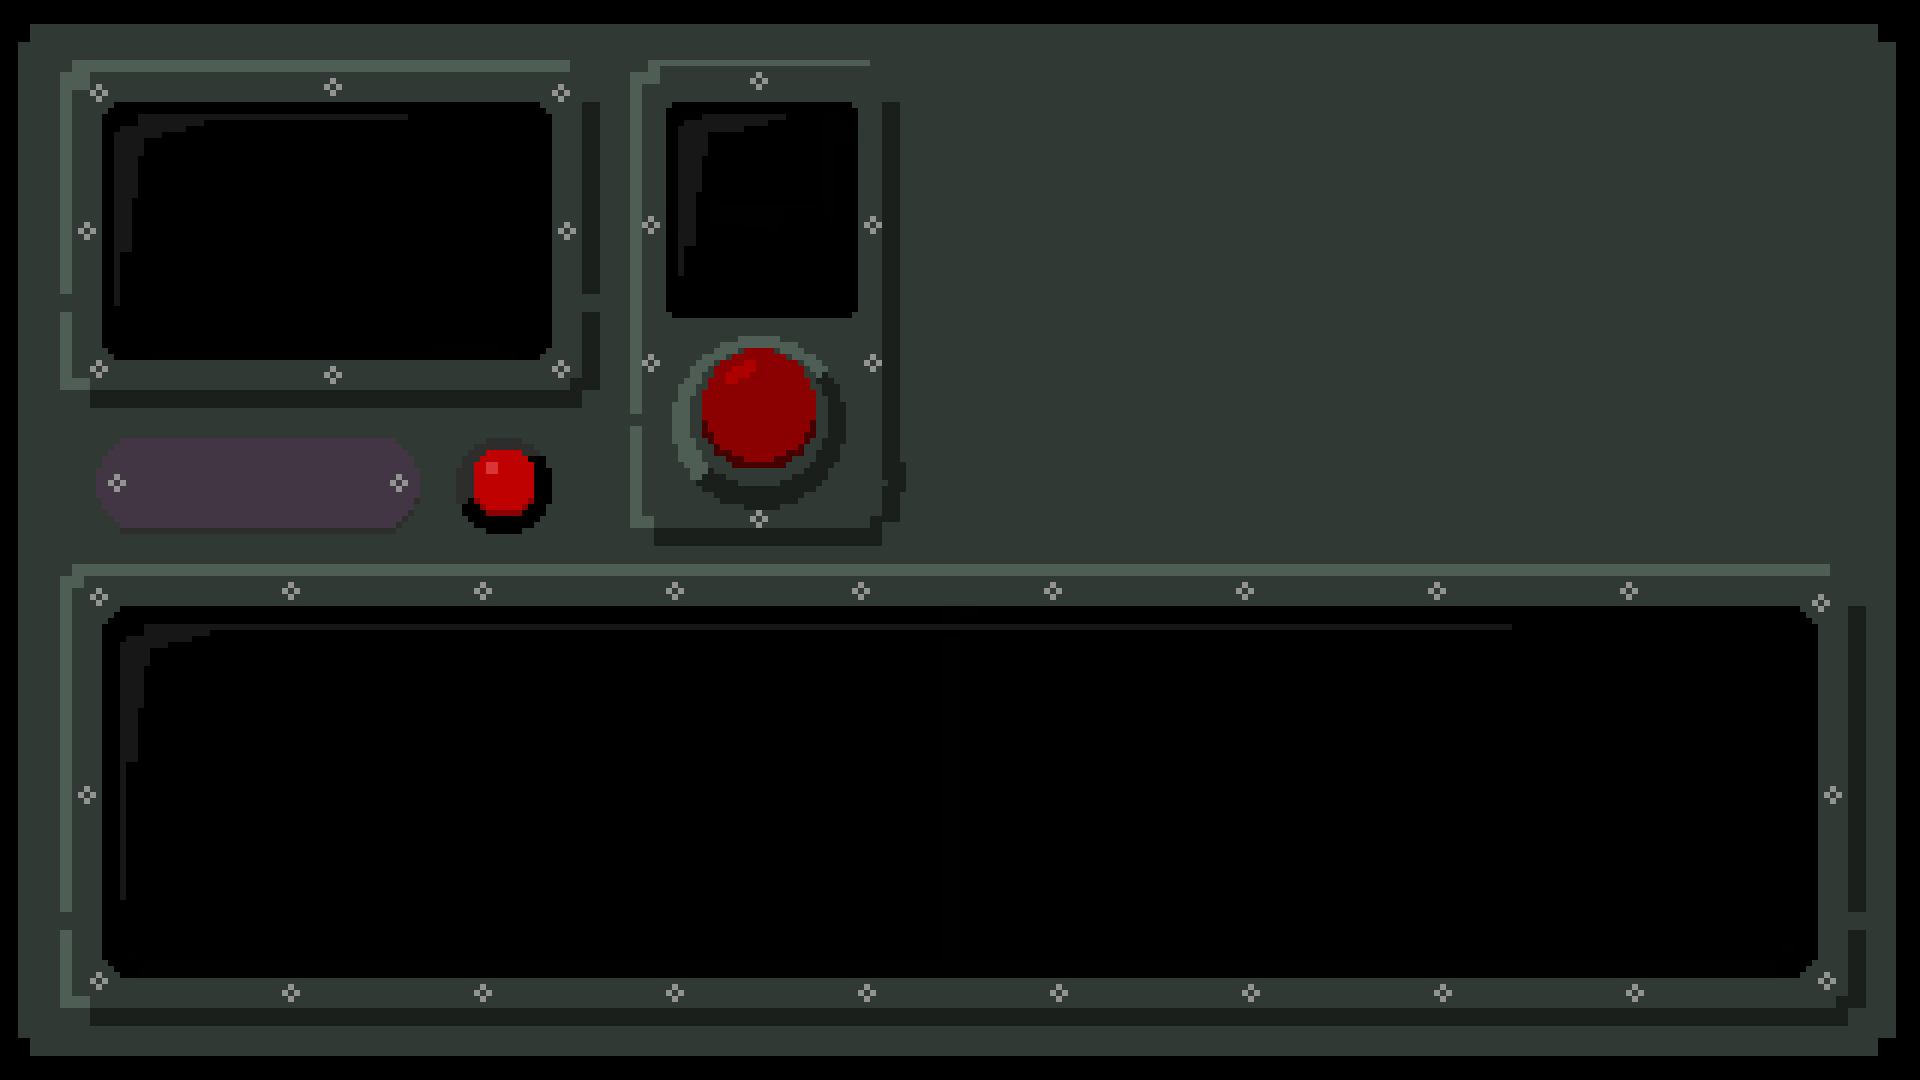
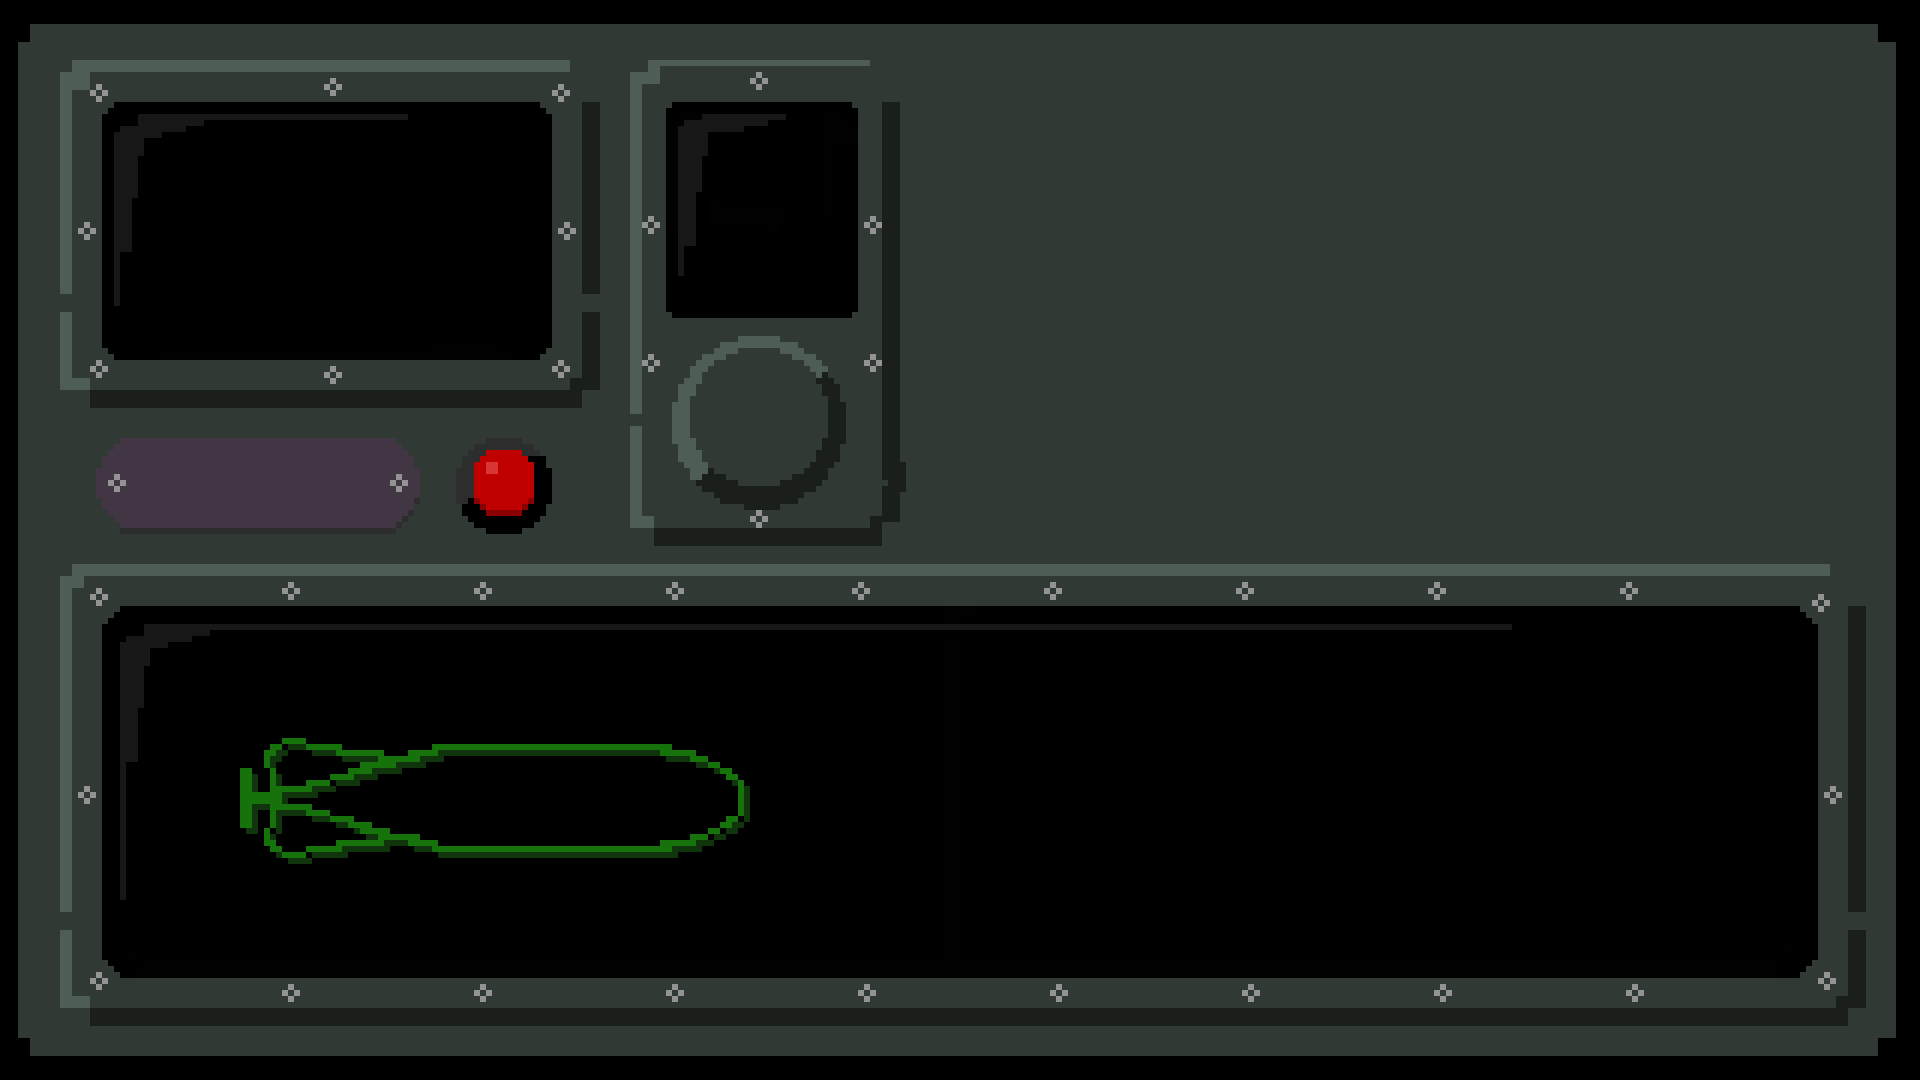
Add button to assets.

Changed region(s): [[0.125, 0.6722, 0.4062, 0.7944], [0.3438, 0.3056, 0.4375, 0.4583]]

diff --git a/assets/js/button.js b/assets/js/button.js
@@ -1,0 +1,54 @@
+class Button {
+  x = 660;
+  y = 318;
+
+  _press = 0;
+
+  _image;
+  _imageLocation = './assets/img/button.png';
+  _spriteWidth = 192;
+  _spriteHeight = 192;
+
+  constructor() {
+    console.log('button: constructor');
+
+    this._loadImage();
+  }
+
+  _loadImage() {
+    console.log('button: _loadImage');
+
+    this._image = new Image();
+
+    this._image.onload = () => {
+      this._draw();
+    };
+
+    this._image.src = this._imageLocation;
+  }
+  _draw() {
+    // console.log('book: _draw');
+
+    const _sourceY = this._spriteHeight * this._press;
+
+    ctx.beginPath();
+    ctx.drawImage(
+      this._image,
+      0,
+      _sourceY,
+      this._spriteWidth,
+      this._spriteHeight,
+      this.x,
+      this.y,
+      this._spriteWidth,
+      this._spriteHeight
+    );
+  }
+
+  tick() {
+    // console.log("book: tick")
+    this._draw();
+  }
+
+
+}

diff --git a/index.html b/index.html
@@ -1,20 +1,18 @@
 <!DOCTYPE html>
 <html lang="en">
-<head>
-    <meta charset="UTF-8">
-    <meta name="viewport" content="width=device-width, initial-scale=1.0">
+  <head>
+    <meta charset="UTF-8" />
+    <meta name="viewport" content="width=device-width, initial-scale=1.0" />
     <title>Game</title>
 
-    <link rel="stylesheet" href="./assets/css/style.css">
-
-</head>
-<body>
-
+    <link rel="stylesheet" href="./assets/css/style.css" />
+  </head>
+  <body>
     <canvas id="game" class="game" width="1920" height="1080"></canvas>
 
     <script src="./assets/js/controlpanel.js"></script>
+    <script src="./assets/js/button.js"></script>
     <script src="./assets/js/book.js"></script>
     <script src="./assets/js/index.js"></script>
-
-</body>
+  </body>
 </html>

diff --git a/assets/js/index.js b/assets/js/index.js
@@ -5,15 +5,12 @@ const book1 = new Book();
 
 const back = new Control();
 
-book1.tick();
+const button = new Button();
 
 function onClick(event) {
-    console.log("click");
-
-    // if (area) ?
-
-    book1.switchPageUp();
-    book1.tick();
+  console.log('click');
+  book1.switchPageUp();
+  book1.tick();
 }
 
 document.addEventListener('click', onClick);

diff --git a/assets/js/book.js b/assets/js/book.js
@@ -1,5 +1,5 @@
 class Book {
-  x = 1920 - 160*6 - 50;
+  x = 1920 - 160 * 6 - 50;
   y = 0;
 
   _currentPage = 0;

diff --git a/assets/js/controlpanel.js b/assets/js/controlpanel.js
@@ -17,5 +17,4 @@ class Control {
     };
     this._image.src = this._imageLocation;
   }
-
 }
